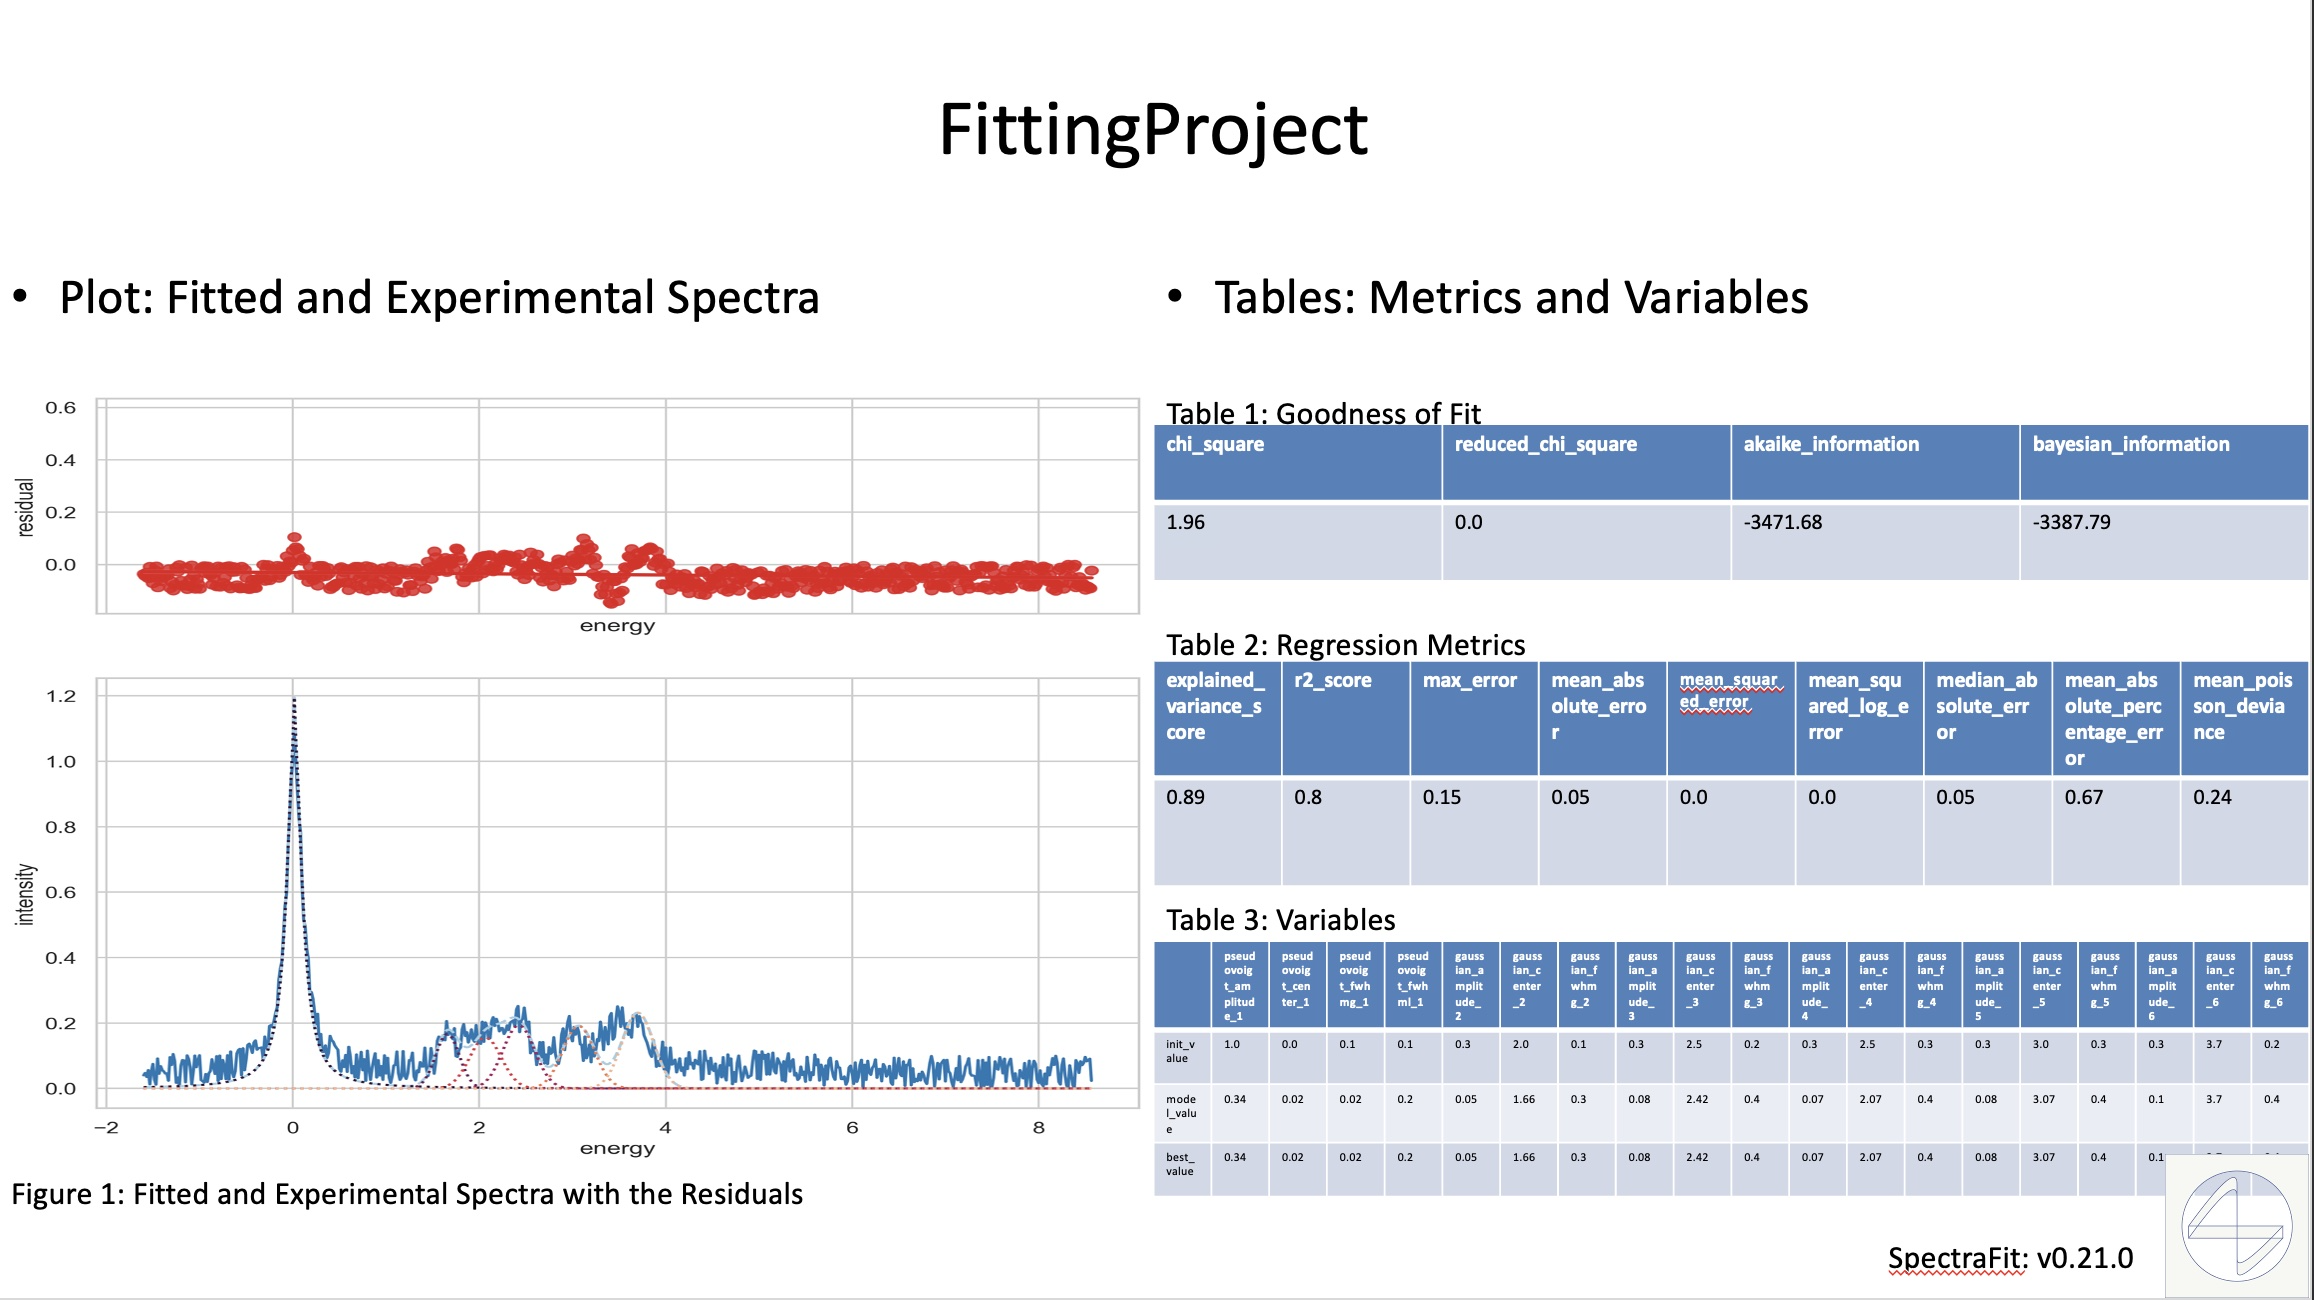
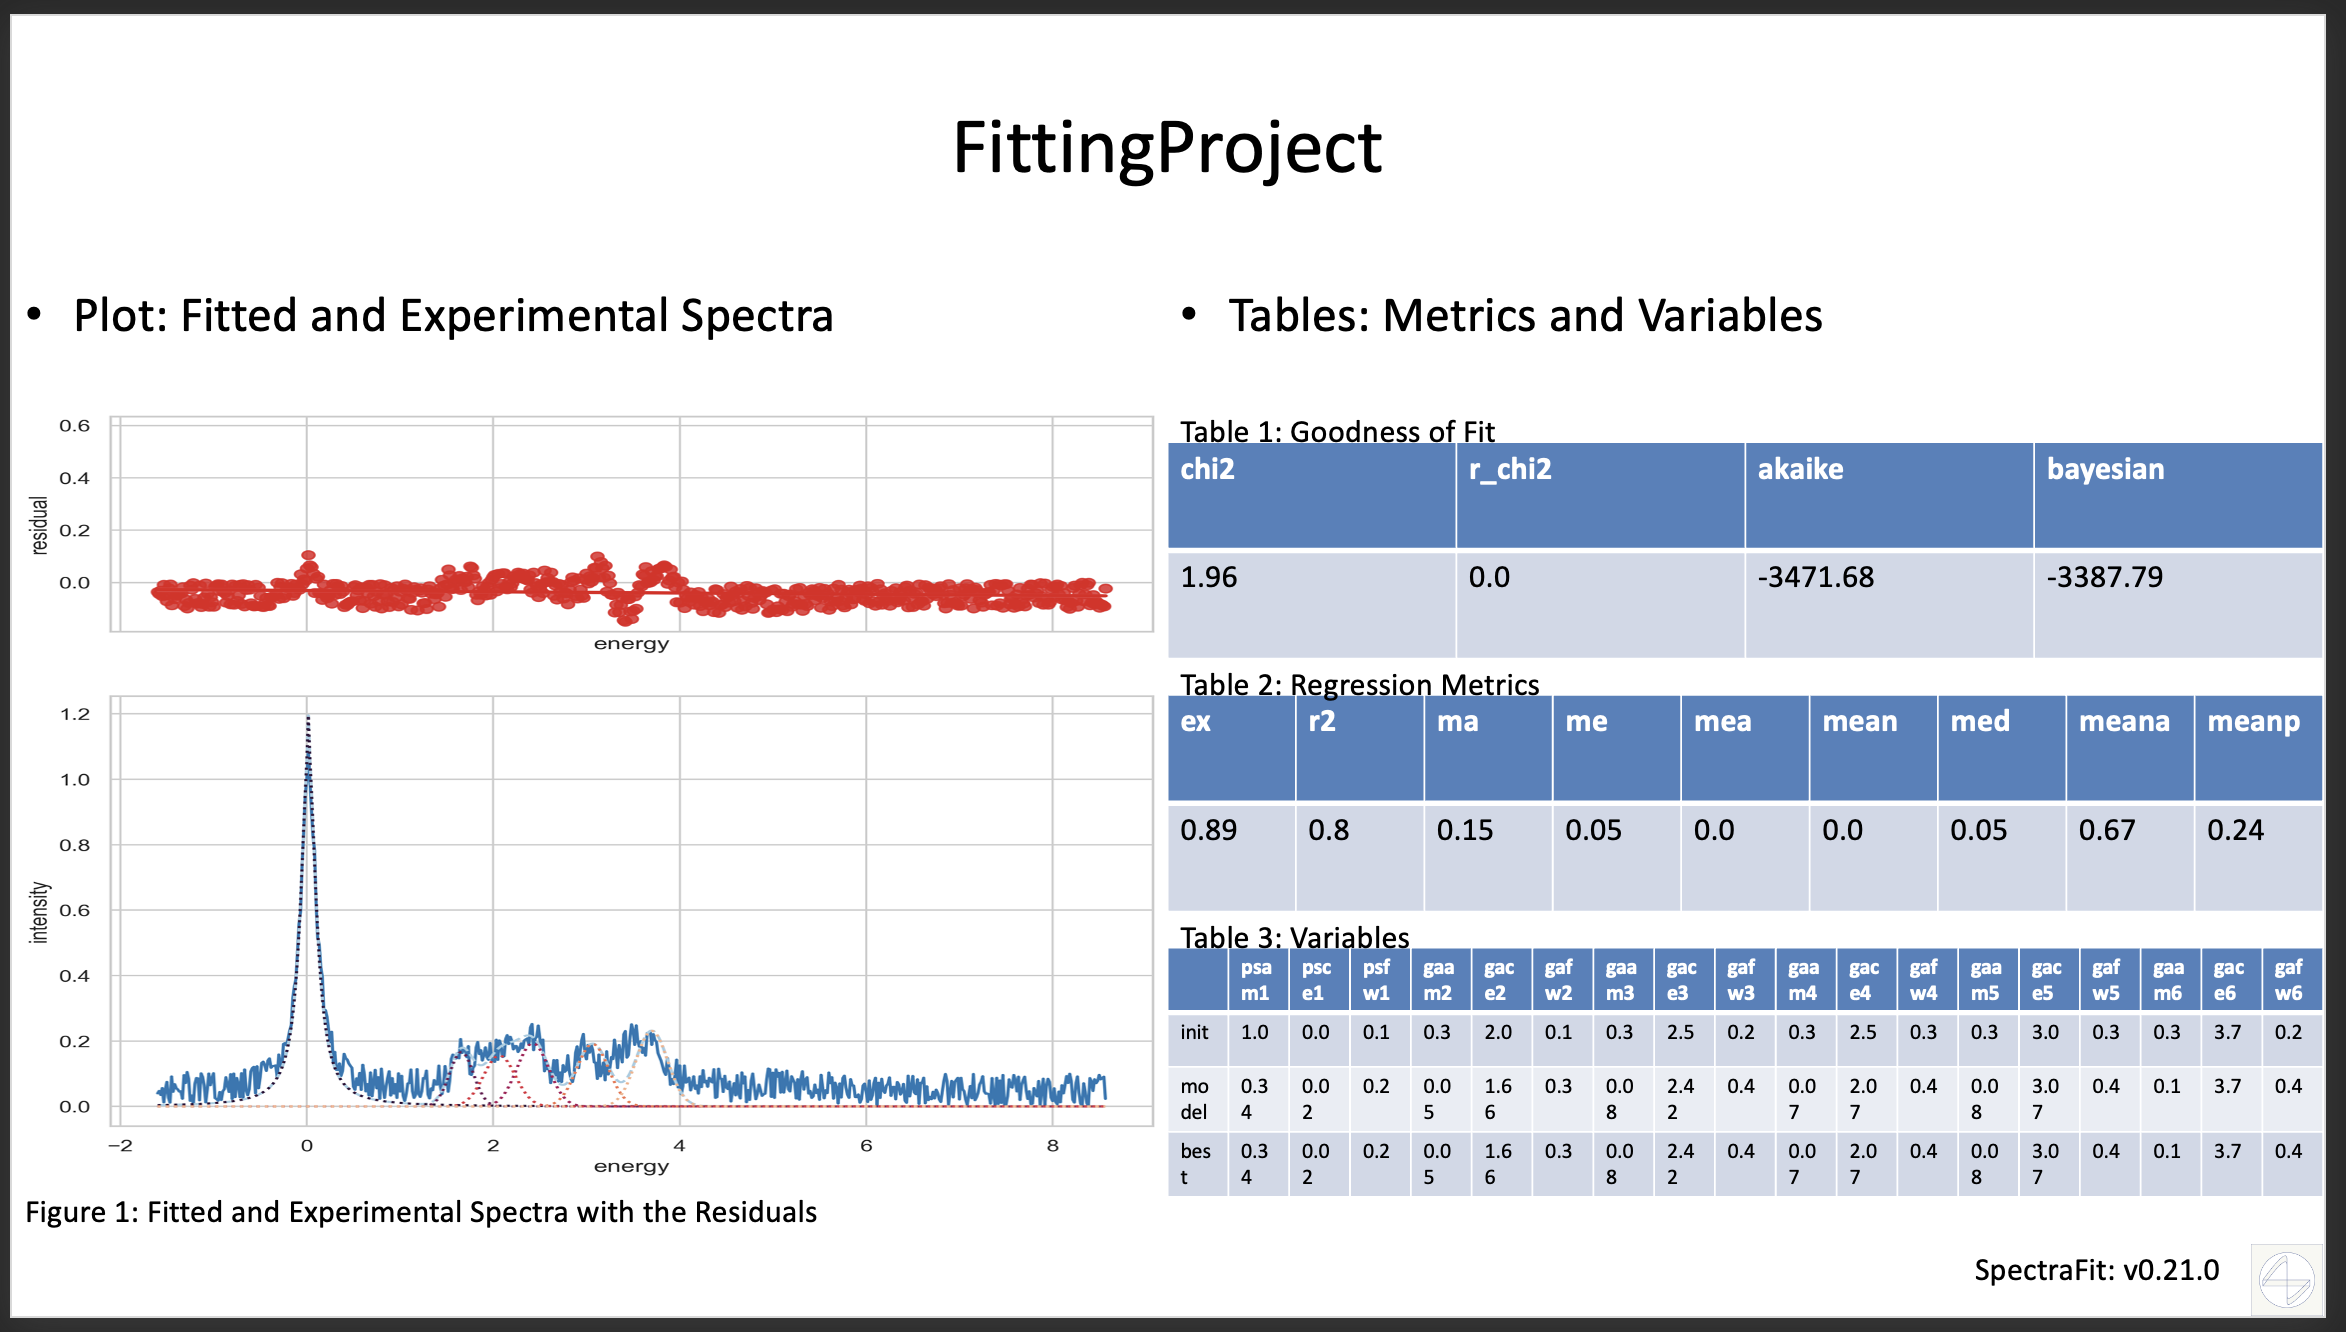
refactor: :camera_flash: Change layout and update docs

diff --git a/spectrafit/api/pptx_model.py b/spectrafit/api/pptx_model.py
@@ -1,4 +1,5 @@
 """PPTXModel class for SpectraFit API."""
+import re
 import tempfile
 
 from pathlib import Path
@@ -15,6 +16,7 @@ from pptx.util import Pt
 from pydantic import BaseModel
 from pydantic import ConfigDict
 from pydantic import Field
+from pydantic import field_validator
 from spectrafit import __version__
 from spectrafit.plotting import PlotSpectra
 
@@ -48,10 +50,10 @@ class OutputAPI(BaseModel):
 class GoodnessOfFitAPI(BaseModel):
     """GoodnessOfFit class."""
 
-    chi_square: float
-    reduced_chi_square: float
-    akaike_information: float
-    bayesian_information: float
+    chi2: float = Field(..., alias="chi_square")
+    r_chi2: float = Field(..., alias="reduced_chi_square")
+    akaike: float = Field(..., alias="akaike_information")
+    bayesian: float = Field(..., alias="bayesian_information")
 
 
 class RegressionMetricsAPI(BaseModel):
@@ -61,6 +63,28 @@ class RegressionMetricsAPI(BaseModel):
     columns: List[int]
     data: List[List[float]]
 
+    @field_validator("index")
+    @classmethod
+    def short_metrics(cls, v: List[str]) -> List[str]:
+        """Shorten the metrics names.
+
+        Args:
+            v (List[str]): The metrics names.
+
+        Returns:
+            List[str]: The shortened metrics names.
+        """
+        pattern = r"(?<!\d)[a-zA-Z0-9]{2,}(?!\d)"
+        abbreviations: Dict[str, str] = {}
+        for metric in v:
+            abbreviation = "".join(re.findall(pattern, metric)).lower()[:2]
+            while abbreviation in abbreviations.values() or len(abbreviation) < 2:
+                abbreviation = "".join(re.findall(pattern, metric)).lower()[
+                    : len(abbreviation) + 1
+                ]
+            abbreviations[metric] = abbreviation
+        return list(abbreviations.values())
+
 
 class SolverAPI(BaseModel):
     """Solver class for getting the metrics of the fit for PPTXData output."""
@@ -68,6 +92,29 @@ class SolverAPI(BaseModel):
     goodness_of_fit: GoodnessOfFitAPI
     regression_metrics: RegressionMetricsAPI
     variables: Dict[str, Dict[str, float]]
+
+    @field_validator("variables")
+    @classmethod
+    def short_variables(
+        cls, v: Dict[str, Dict[str, float]]
+    ) -> Dict[str, Dict[str, float]]:
+        """Shorten the variables names.
+
+        Args:
+            v (Dict[str, Dict[str, float]]): The variables names.
+
+        Returns:
+            Dict[str, Dict[str, float]]: The shortened variables names.
+        """
+        new_dict = {}
+        for key, value in v.items():
+            new_key = "".join([part[:2] for part in key.split("_")])
+            new_value = {}
+            for sub_key, sub_value in value.items():
+                new_sub_key = sub_key.replace("_value", "")
+                new_value[new_sub_key] = sub_value
+            new_dict[new_key] = new_value
+        return new_dict
 
 
 class PPTXDataAPI(BaseModel):
@@ -136,7 +183,7 @@ class PPTXDescriptionAPI(BaseModel):
     model_config = ConfigDict(validate_assignment=True, arbitrary_types_allowed=True)
     position: PPTXPositionAPI
     text: str
-    font_size: Pt = Field(default_factory=lambda: Pt(12))
+    font_size: Pt = Field(default_factory=lambda: Pt(8))
 
 
 class PPTXFigureAPI(BaseModel):
@@ -535,17 +582,17 @@ class PPTXLayoutAPI:
         """
         return PPTXFigureAPI(
             position=PPTXPositionAPI(
-                left=Pt(self.pptx_formats[self._format][1]["width"] - 80),
-                top=Pt(self.pptx_formats[self._format][1]["height"] - 80),
-                width=Pt(80),
-                height=Pt(80),
+                left=Pt(self.pptx_formats[self._format][1]["width"] - 40),
+                top=Pt(self.pptx_formats[self._format][1]["height"] - 40),
+                width=Pt(40),
+                height=Pt(40),
             ),
             description=PPTXDescriptionAPI(
                 position=PPTXPositionAPI(
-                    left=Pt(self.pptx_formats[self._format][1]["width"] - 240),
-                    top=Pt(self.pptx_formats[self._format][1]["height"] - 80),
-                    width=Pt(160),
-                    height=Pt(18),
+                    left=Pt(self.pptx_formats[self._format][1]["width"] - 200),
+                    top=Pt(self.pptx_formats[self._format][1]["height"] - 40),
+                    width=Pt(200),
+                    height=Pt(14),
                 ),
                 text=PPTXBasicTitleAPI().credit_description,
             ),

diff --git a/spectrafit/plugins/pptx_converter.py b/spectrafit/plugins/pptx_converter.py
@@ -156,14 +156,16 @@ class PPTXElements:
             width=position_table.width,
             height=position_table.height,
         )
+        table.table.cell(0, 0).text = ""
         if index_hidden:
-            table.table.cell(0, 0).text = ""
             for i, col in enumerate(df.columns):
                 table.table.cell(0, i).text = str(col)
                 for j, value in enumerate(df[col]):
                     table.table.cell(j + 1, i).text = str(value)
         else:
-            for i, col in enumerate(df.columns):
+            for i, index in enumerate(df.index, start=1):
+                table.table.cell(i, 0).text = str(index)
+            for i, col in enumerate(df.columns, start=1):
                 table.table.cell(0, i).text = col
                 for j, value in enumerate(df[col]):
                     table.table.cell(j + 1, i).text = str(value)

diff --git a/spectrafit/api/test/test_pptx_model.py b/spectrafit/api/test/test_pptx_model.py
@@ -62,10 +62,10 @@ def test_goodness_of_fit() -> None:
         akaike_information=2.0,
         bayesian_information=3.0,
     )
-    assert goodness_of_fit.chi_square == 1.0
-    assert goodness_of_fit.reduced_chi_square == 0.5
-    assert goodness_of_fit.akaike_information == 2.0
-    assert goodness_of_fit.bayesian_information == 3.0
+    assert goodness_of_fit.chi2 == 1.0
+    assert goodness_of_fit.r_chi2 == 0.5
+    assert goodness_of_fit.akaike == 2.0
+    assert goodness_of_fit.bayesian == 3.0
 
 
 def test_regression_metrics() -> None:
